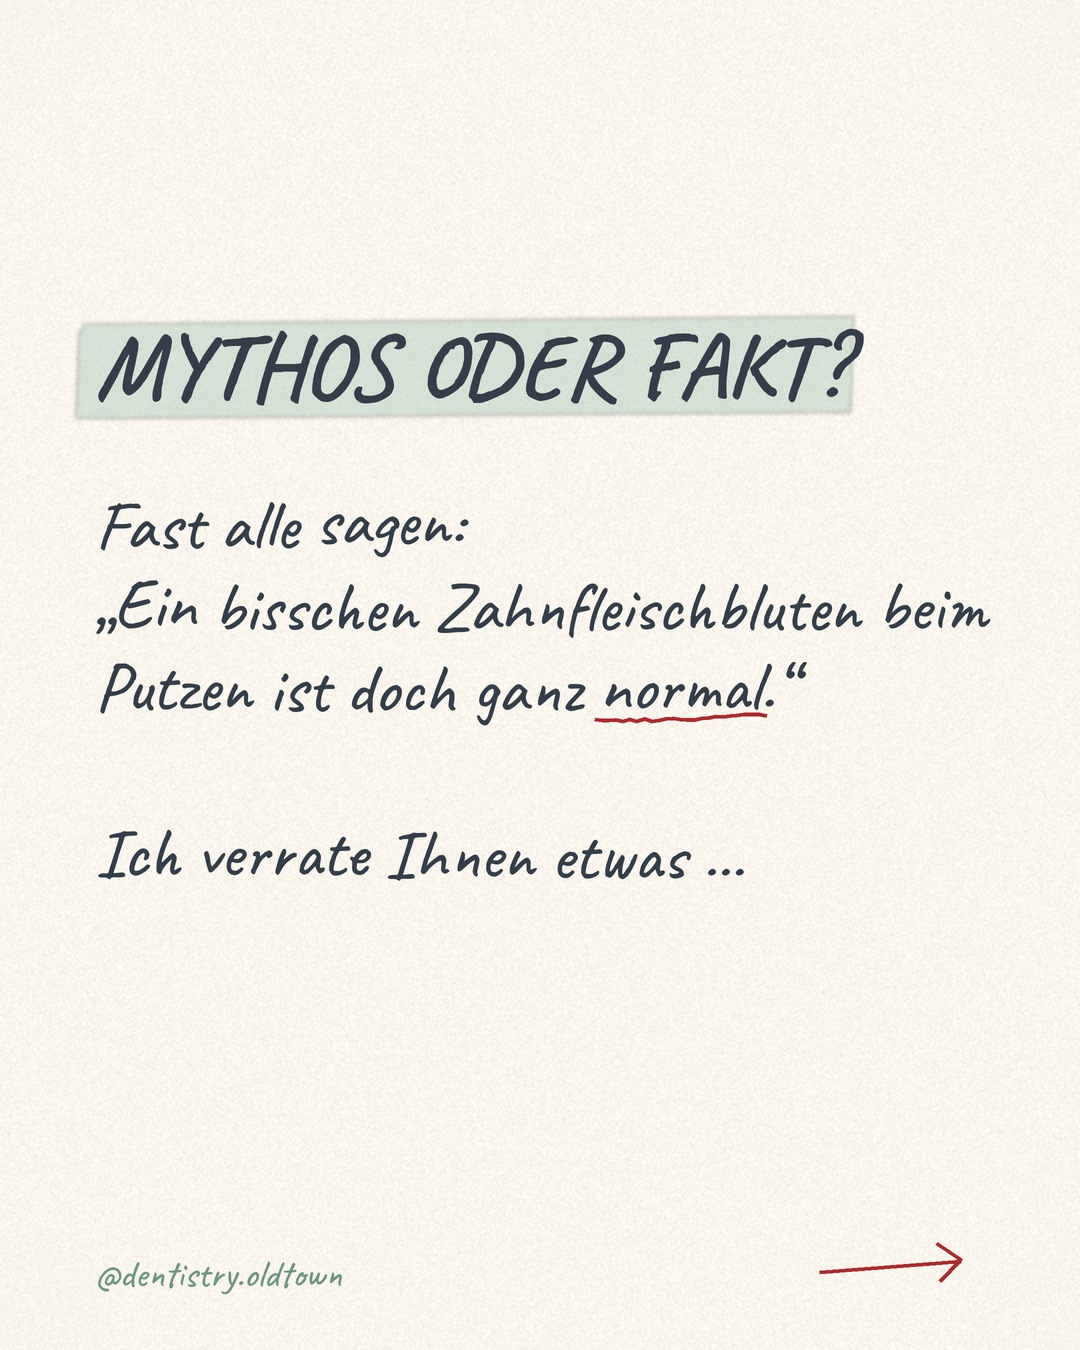
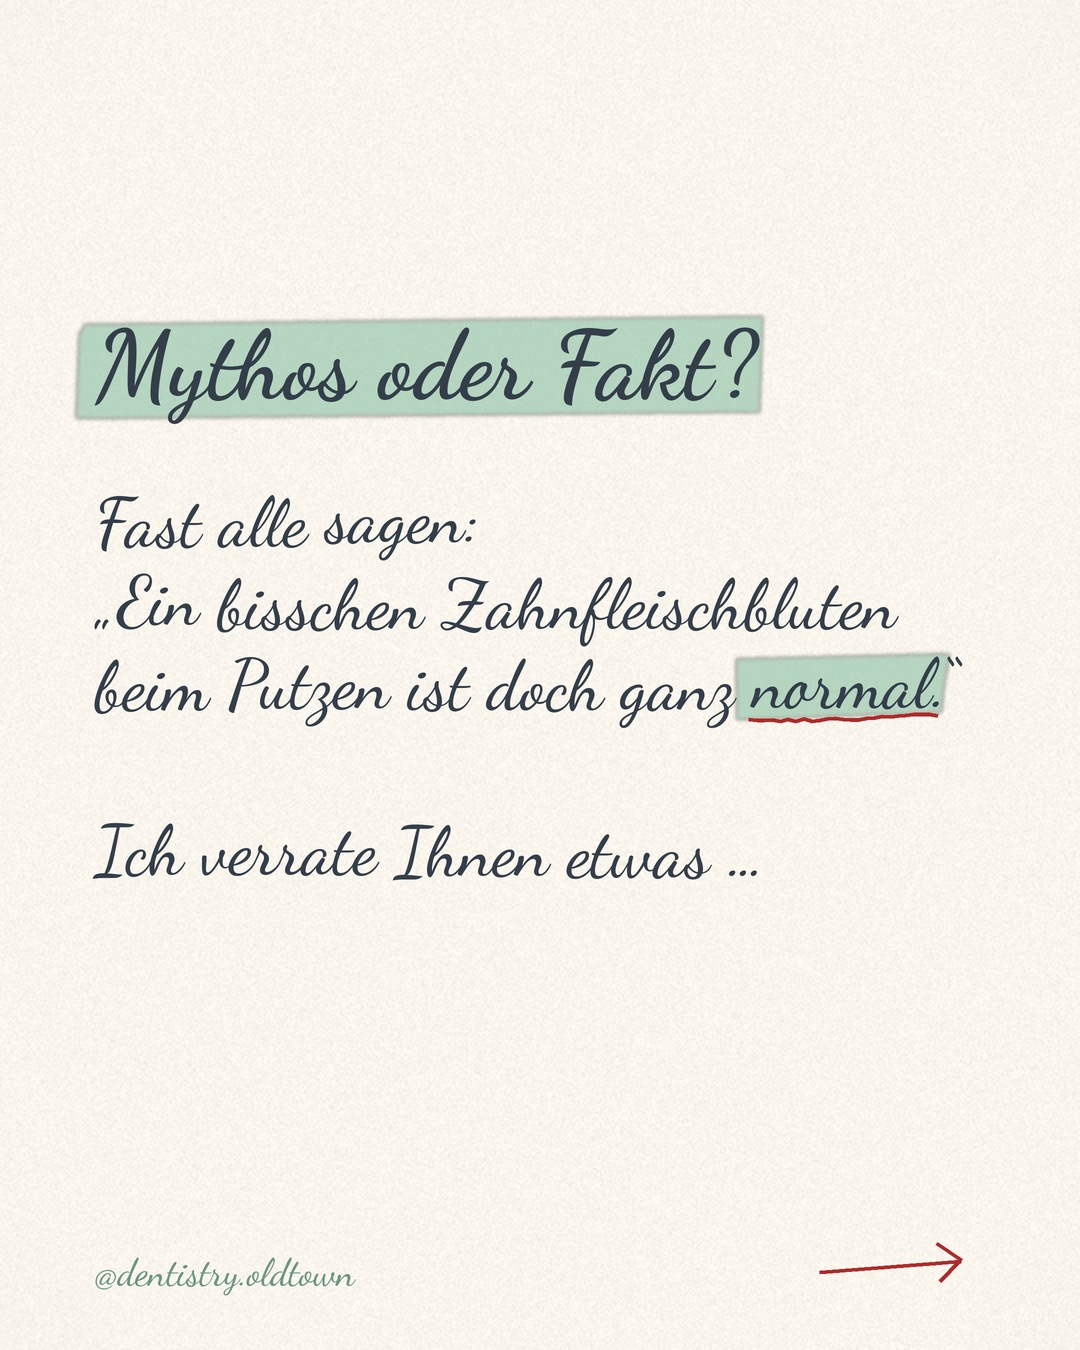
Handwritten style v2: cursive + highlighter
Claude-Session: https://claude.ai/code/session_012SPZoo3349FxBHtRPxeMWn

diff --git a/template/brief_style.py b/template/brief_style.py
@@ -3,9 +3,9 @@ from PIL import Image, ImageDraw, ImageFont, ImageFilter
 import numpy as np
 F='/home/claude/instagram-media/template/fonts/'
 W,H=1080,1350; S=2
-PAPER=(250,246,238); INK=(52,62,74); RED=(176,42,42); SAGE=(168,200,184); SAGE_D=(110,150,130)
+PAPER=(250,246,238); INK=(52,62,74); RED=(176,42,42); SAGE=(168,200,184); MARK=(150,198,172); SAGE_D=(110,150,130)
 def cav(sz,w=500):
-    f=ImageFont.truetype(F+'Caveat%5Bwght%5D.ttf',sz*S)
+    f=ImageFont.truetype(F+'DancingScript%5Bwght%5D.ttf',sz*S)
     try: f.set_variation_by_axes([w])
     except Exception: pass
     return f
@@ -27,11 +27,11 @@ def underline(d,x0,x1,y,seed,col=RED,w=4):
     r=random.Random(seed); n=24
     pts=[(x0+(x1-x0)*i/n, y+math.sin(i/n*math.pi*1.3+r.random())*3+r.uniform(-1,1)) for i in range(n+1)]
     wobble(d,pts,col,w,seed,0.6)
-def highlight(img,x0,y0,x1,y1,seed,col=SAGE):
+def highlight(img,x0,y0,x1,y1,seed,col=(150,198,172),alpha=175):
     lay=Image.new('RGBA',img.size,(0,0,0,0)); dl=ImageDraw.Draw(lay); r=random.Random(seed)
     for k in range(3):
         dy=r.uniform(-6,6)
-        dl.polygon([((x0-10+r.uniform(-6,6))*S,(y0+dy+r.uniform(-4,4))*S),((x1+14+r.uniform(-6,6))*S,(y0+dy-6)*S),((x1+8)*S,(y1+dy+r.uniform(-4,4))*S),((x0-14)*S,(y1+dy+6)*S)],fill=col+(115,))
+        dl.polygon([((x0-10+r.uniform(-6,6))*S,(y0+dy+r.uniform(-4,4))*S),((x1+14+r.uniform(-6,6))*S,(y0+dy-6)*S),((x1+8)*S,(y1+dy+r.uniform(-4,4))*S),((x0-14)*S,(y1+dy+6)*S)],fill=col+(alpha,))
     lay=lay.filter(ImageFilter.GaussianBlur(2*S))
     return Image.alpha_composite(img,lay)
 def write(d,x,y,tokens,size,seed,maxw=900,lh=1.18,rot=0):
@@ -73,13 +73,17 @@ def page(n,total,title,body,seed,out,sign=False,arrow=True):
     hh=(170 if title else 0)+write(dry,95,0,T(body),70,seed+1)[0]+(160 if sign else 0)
     y=max(140,(1200-hh)/2)
     if title:
-        f=cav(92,700); tw=d.textlength(title,font=f)/S
+        f=cav(96,700); tw=d.textlength(title,font=f)/S
         img=highlight(img,90,y+18,90+tw,y+100,seed); d=ImageDraw.Draw(img)
         d.text((95*S,y*S),title,font=f,fill=INK); y+=170
+    _,sp0=write(ImageDraw.Draw(Image.new('RGBA',(W*S,H*S))),95,y,T(body),70,seed+1)
+    for i,(a,b,yy) in enumerate(merge_spans(sp0)):
+        img=highlight(img,a-2,yy-52,b+2,yy-6,seed+30+i,MARK,175)
+    d=ImageDraw.Draw(img)
     y,spans=write(d,95,y,T(body),70,seed+1)
     for i,(a,b,yy) in enumerate(merge_spans(spans)): underline(d,a-4,b+6,yy,seed+10+i)
     if sign:
-        f=cav(70,600); d.text((95*S,(y+40)*S),'Ihre Zahnärztin Altstadt',font=f,fill=INK)
+        f=cav(76,600); d.text((95*S,(y+40)*S),'Ihre Zahnärztin Altstadt',font=f,fill=INK)
         underline(d,95,95+d.textlength('Ihre Zahnärztin Altstadt',font=f)/S,y+125,seed+50,SAGE_D,3)
     # footer
     d.text((95*S,1250*S),'@dentistry.oldtown',font=cav(38,500),fill=SAGE_D)
@@ -87,7 +91,7 @@ def page(n,total,title,body,seed,out,sign=False,arrow=True):
         wobble(d,[(820,1272),(960,1262)],RED,4,seed+60); wobble(d,[(960,1262),(935,1245)],RED,4,seed+61); wobble(d,[(960,1262),(938,1282)],RED,4,seed+62)
     img.resize((W,H),Image.LANCZOS).convert('RGB').save(out,quality=93)
 o=sys.argv[1]
-page(1,4,'MYTHOS ODER FAKT?',"Fast alle sagen:\n„Ein bisschen Zahnfleischbluten beim Putzen ist doch ganz *normal.*“\n\nIch verrate Ihnen etwas …",1,o+'/brief_1.jpg')
+page(1,4,'Mythos oder Fakt?',"Fast alle sagen:\n„Ein bisschen Zahnfleischbluten beim Putzen ist doch ganz *normal.*“\n\nIch verrate Ihnen etwas …",1,o+'/brief_1.jpg')
 page(2,4,None,"… es ist *nicht* normal.\n\n*Gesundes* *Zahnfleisch* *blutet* *nicht.*\n\nMeist steckt eine kleine Entzündung dahinter – ausgelöst durch Belag am Zahnfleischrand. Und die gute Nachricht kommt gleich …",2,o+'/brief_2.jpg')
-page(3,4,'WAS HILFT?',"✓ Weiterputzen – *sanft*, nicht fest.\n\n✓ Die Zwischenräume *jeden* *Abend* reinigen.\n\n✓ Regelmäßig zur Mundhygiene.\n\nUnd wenn es nicht besser wird …",3,o+'/brief_3.jpg')
+page(3,4,'Was hilft?',"✓ Weiterputzen – *sanft*, nicht fest.\n\n✓ Die Zwischenräume *jeden* *Abend* reinigen.\n\n✓ Regelmäßig zur Mundhygiene.\n\nUnd wenn es nicht besser wird …",3,o+'/brief_3.jpg')
 page(4,4,None,"… blutet es länger als *1–2* *Wochen,* schauen wir uns das gemeinsam an.\n\nIn Ruhe, ohne Druck – und mit Zeit für Ihre Fragen.",4,o+'/brief_4.jpg',sign=True,arrow=False)
